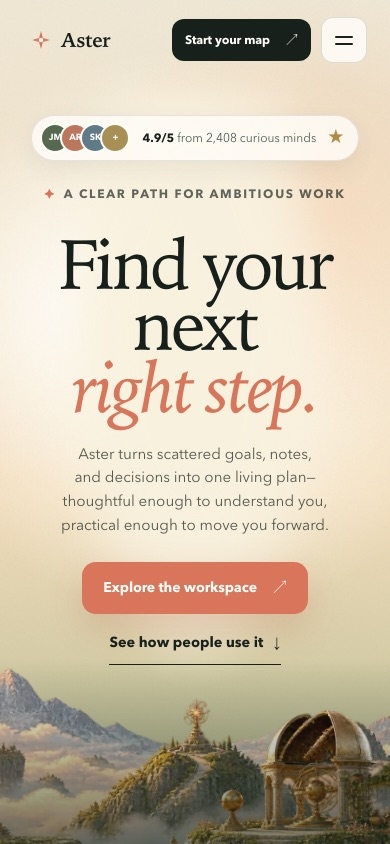
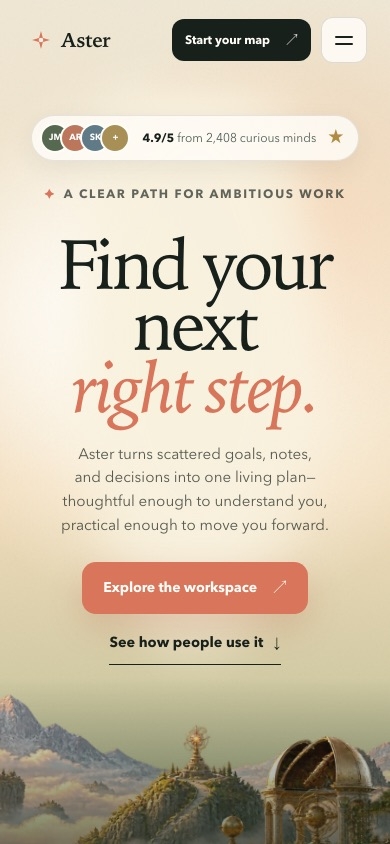
Fix hero press row and layer seams; restyle reviews as social posts
Press row
- `[data-reveal].is-visible` sets `transform: none`, which was wiping the
  `translateX(-50%)` that centred `.hero-proof`. The row sat at left:50%
  unshifted and ran off the right edge, clipping the last masthead. Centre it
  with `left:0; right:0` and the wrap's own `margin-inline:auto` instead, so
  no transform is involved.

Layer termination
- The three panorama layers ended at three different heights and drifted apart
  on scroll, leaving stacked horizontal seams. Cause: parallax translated the
  layers upward faster than the hero's own bottom edge rose, so they detached
  from the clip boundary, and the scene sat 45px above the hero bottom to begin
  with.
- Scene bottom now meets the hero bottom, and parallax lags downward (distant
  layer lags most) so all three always extend past the hero edge and are
  clipped on one line. Verified at four scroll depths: every layer bottom is
  at or below the hero bottom throughout.

Reviews
- Restyled from editorial pull-quotes to the reference's social-post anatomy:
  avatar, name with a verified tick, star row, plain sans body, and a
  date/country footer, in white cards with a fade-out and a floating
  "2,408 people" count pill.

Claude-Session: https://claude.ai/code/session_01HSVe2dt55jy1ozJ2u5iDJx

Changed region(s): [[0.0, 0.7701, 1.0, 1.0]]

diff --git a/index.html b/index.html
@@ -253,22 +253,112 @@
 
       <section class="stories section-pad" id="stories">
         <div class="wrap story-heading" data-reveal><div><p class="section-kicker">People who found their path</p><h2>Less spinning.<br /><em>More becoming.</em></h2></div><p>From an uncertain first note to a decision they were proud to make, these are small stories of momentum returning.</p></div>
-        <div class="story-wall" data-reveal>
-            <article class="story-card story-featured"><div class="quote-mark">“</div><blockquote>Aster helped me stop treating every idea like an emergency. I could finally see the one decision underneath all the noise.</blockquote><div class="story-person"><span class="story-avatar coral">MP</span><div><strong>Maya Patel</strong><small>Independent researcher · London</small></div></div></article>
-            <article class="story-card"><div class="story-stars" role="img" aria-label="Rated 5 out of 5">★★★★★</div><blockquote>I opened it at 11pm with six scattered notes. Forty minutes later I had a plan I actually believed.</blockquote><div class="story-person"><span class="story-avatar sage">JL</span><div><strong>Jon Lee</strong><small>Product designer · Seoul</small></div></div></article>
-            <article class="story-card story-dark"><div class="story-stars" role="img" aria-label="Rated 5 out of 5">★★★★★</div><blockquote>Less like software giving advice, more like a room where my own thinking becomes easier to hear.</blockquote><div class="story-person"><span class="story-avatar blue">AR</span><div><strong>Amira Ross</strong><small>Founder · Toronto</small></div></div></article>
-            <article class="story-card"><div class="story-stars" role="img" aria-label="Rated 5 out of 5">★★★★★</div><blockquote>The roadmap keeps changing as I learn, which is exactly what a real plan should do.</blockquote><div class="story-person"><span class="story-avatar gold">SK</span><div><strong>Sam K.</strong><small>Writer · Melbourne</small></div></div></article>
-            <article class="story-card"><div class="story-stars" role="img" aria-label="Rated 5 out of 5">★★★★★</div><blockquote>I stopped rewriting the same to-do list. The decision map showed me only two things actually mattered.</blockquote><div class="story-person"><span class="story-avatar coral">DV</span><div><strong>Dani Vasquez</strong><small>Grad student · Austin</small></div></div></article>
-            <article class="story-card"><div class="story-stars" role="img" aria-label="Rated 5 out of 5">★★★★★</div><blockquote>The pattern view found a thread across two years of notes I had never connected.</blockquote><div class="story-person"><span class="story-avatar sage">TO</span><div><strong>Tomas Ohl</strong><small>Engineer · Berlin</small></div></div></article>
-            <article class="story-card"><div class="story-stars" role="img" aria-label="Rated 5 out of 5">★★★★★</div><blockquote>I use it to think out loud before meetings. My arguments got noticeably sharper.</blockquote><div class="story-person"><span class="story-avatar blue">NB</span><div><strong>Nia Brooks</strong><small>Consultant · Chicago</small></div></div></article>
-            <article class="story-card"><div class="story-stars" role="img" aria-label="Rated 5 out of 5">★★★★★</div><blockquote>Not another tracker. It asks the question I was avoiding, which is worth more than a checklist.</blockquote><div class="story-person"><span class="story-avatar gold">EF</span><div><strong>Eli Fraser</strong><small>Photographer · Lisbon</small></div></div></article>
-            <article class="story-card"><div class="story-stars" role="img" aria-label="Rated 5 out of 5">★★★★★</div><blockquote>Onboarding took five minutes and it already understood the shape of my project.</blockquote><div class="story-person"><span class="story-avatar coral">RK</span><div><strong>Rae Kim</strong><small>Founder · Vancouver</small></div></div></article>
-            <article class="story-card"><div class="story-stars" role="img" aria-label="Rated 5 out of 5">★★★★★</div><blockquote>Every suggestion links back to my own notes, so I can check the reasoning instead of trusting it blindly.</blockquote><div class="story-person"><span class="story-avatar sage">HM</span><div><strong>Hana Mori</strong><small>Researcher · Kyoto</small></div></div></article>
-            <article class="story-card"><div class="story-stars" role="img" aria-label="Rated 5 out of 5">★★★★★</div><blockquote>It kept my momentum through a month where I would normally have stalled completely.</blockquote><div class="story-person"><span class="story-avatar blue">LC</span><div><strong>Luis Cardoso</strong><small>Strategist · São Paulo</small></div></div></article>
-            <article class="story-card"><div class="story-stars" role="img" aria-label="Rated 5 out of 5">★★★★★</div><blockquote>My writing still sounds like me. That was the thing I was most worried about.</blockquote><div class="story-person"><span class="story-avatar gold">GA</span><div><strong>Greta Alden</strong><small>Editor · Dublin</small></div></div></article>
+        <div class="story-wall-shell">
+          <div class="story-wall" data-reveal>
+            <article class="story-card">
+              <header class="story-head">
+                <span class="story-avatar coral" aria-hidden="true">MP</span>
+                <div><p class="story-name">Maya Patel<svg class="verified" viewBox="0 0 20 20" aria-hidden="true"><path d="M10 1.4 12.2 3l2.7-.2 1 2.5 2.3 1.4-.7 2.6.7 2.6-2.3 1.4-1 2.5-2.7-.2L10 18.6 7.8 17l-2.7.2-1-2.5L1.8 13.3l.7-2.6-.7-2.6 2.3-1.4 1-2.5 2.7.2Z"/><path d="m6.9 10.1 2.1 2.1 4.1-4.3" fill="none" stroke="#fff" stroke-width="1.7" stroke-linecap="round" stroke-linejoin="round"/></svg></p><p class="story-stars" role="img" aria-label="Rated 5 out of 5">★★★★★</p></div>
+              </header>
+              <p class="story-body">Aster helped me stop treating every idea like an emergency. I could finally see the one decision underneath all the noise.</p>
+              <p class="story-meta"><time>Nov 12, 2026</time><span aria-hidden="true">·</span><span>UK</span></p>
+            </article>
+            <article class="story-card">
+              <header class="story-head">
+                <span class="story-avatar sage" aria-hidden="true">JL</span>
+                <div><p class="story-name">Jon Lee<svg class="verified" viewBox="0 0 20 20" aria-hidden="true"><path d="M10 1.4 12.2 3l2.7-.2 1 2.5 2.3 1.4-.7 2.6.7 2.6-2.3 1.4-1 2.5-2.7-.2L10 18.6 7.8 17l-2.7.2-1-2.5L1.8 13.3l.7-2.6-.7-2.6 2.3-1.4 1-2.5 2.7.2Z"/><path d="m6.9 10.1 2.1 2.1 4.1-4.3" fill="none" stroke="#fff" stroke-width="1.7" stroke-linecap="round" stroke-linejoin="round"/></svg></p><p class="story-stars" role="img" aria-label="Rated 5 out of 5">★★★★★</p></div>
+              </header>
+              <p class="story-body">I opened it at 11pm with six scattered notes. Forty minutes later I had a plan I actually believed.</p>
+              <p class="story-meta"><time>Nov 4, 2026</time><span aria-hidden="true">·</span><span>KR</span></p>
+            </article>
+            <article class="story-card">
+              <header class="story-head">
+                <span class="story-avatar blue" aria-hidden="true">AR</span>
+                <div><p class="story-name">Amira Ross<svg class="verified" viewBox="0 0 20 20" aria-hidden="true"><path d="M10 1.4 12.2 3l2.7-.2 1 2.5 2.3 1.4-.7 2.6.7 2.6-2.3 1.4-1 2.5-2.7-.2L10 18.6 7.8 17l-2.7.2-1-2.5L1.8 13.3l.7-2.6-.7-2.6 2.3-1.4 1-2.5 2.7.2Z"/><path d="m6.9 10.1 2.1 2.1 4.1-4.3" fill="none" stroke="#fff" stroke-width="1.7" stroke-linecap="round" stroke-linejoin="round"/></svg></p><p class="story-stars" role="img" aria-label="Rated 5 out of 5">★★★★★</p></div>
+              </header>
+              <p class="story-body">Less like software giving advice, more like a room where my own thinking becomes easier to hear.</p>
+              <p class="story-meta"><time>Oct 28, 2026</time><span aria-hidden="true">·</span><span>CA</span></p>
+            </article>
+            <article class="story-card">
+              <header class="story-head">
+                <span class="story-avatar gold" aria-hidden="true">SK</span>
+                <div><p class="story-name">Sam K.<svg class="verified" viewBox="0 0 20 20" aria-hidden="true"><path d="M10 1.4 12.2 3l2.7-.2 1 2.5 2.3 1.4-.7 2.6.7 2.6-2.3 1.4-1 2.5-2.7-.2L10 18.6 7.8 17l-2.7.2-1-2.5L1.8 13.3l.7-2.6-.7-2.6 2.3-1.4 1-2.5 2.7.2Z"/><path d="m6.9 10.1 2.1 2.1 4.1-4.3" fill="none" stroke="#fff" stroke-width="1.7" stroke-linecap="round" stroke-linejoin="round"/></svg></p><p class="story-stars" role="img" aria-label="Rated 5 out of 5">★★★★★</p></div>
+              </header>
+              <p class="story-body">The roadmap keeps changing as I learn, which is exactly what a real plan should do.</p>
+              <p class="story-meta"><time>Oct 21, 2026</time><span aria-hidden="true">·</span><span>AU</span></p>
+            </article>
+            <article class="story-card">
+              <header class="story-head">
+                <span class="story-avatar coral" aria-hidden="true">DV</span>
+                <div><p class="story-name">Dani Vasquez<svg class="verified" viewBox="0 0 20 20" aria-hidden="true"><path d="M10 1.4 12.2 3l2.7-.2 1 2.5 2.3 1.4-.7 2.6.7 2.6-2.3 1.4-1 2.5-2.7-.2L10 18.6 7.8 17l-2.7.2-1-2.5L1.8 13.3l.7-2.6-.7-2.6 2.3-1.4 1-2.5 2.7.2Z"/><path d="m6.9 10.1 2.1 2.1 4.1-4.3" fill="none" stroke="#fff" stroke-width="1.7" stroke-linecap="round" stroke-linejoin="round"/></svg></p><p class="story-stars" role="img" aria-label="Rated 5 out of 5">★★★★★</p></div>
+              </header>
+              <p class="story-body">I stopped rewriting the same to-do list. The decision map showed me only two things actually mattered.</p>
+              <p class="story-meta"><time>Oct 9, 2026</time><span aria-hidden="true">·</span><span>US</span></p>
+            </article>
+            <article class="story-card">
+              <header class="story-head">
+                <span class="story-avatar sage" aria-hidden="true">TO</span>
+                <div><p class="story-name">Tomas Ohl<svg class="verified" viewBox="0 0 20 20" aria-hidden="true"><path d="M10 1.4 12.2 3l2.7-.2 1 2.5 2.3 1.4-.7 2.6.7 2.6-2.3 1.4-1 2.5-2.7-.2L10 18.6 7.8 17l-2.7.2-1-2.5L1.8 13.3l.7-2.6-.7-2.6 2.3-1.4 1-2.5 2.7.2Z"/><path d="m6.9 10.1 2.1 2.1 4.1-4.3" fill="none" stroke="#fff" stroke-width="1.7" stroke-linecap="round" stroke-linejoin="round"/></svg></p><p class="story-stars" role="img" aria-label="Rated 5 out of 5">★★★★★</p></div>
+              </header>
+              <p class="story-body">The pattern view found a thread across two years of notes I had never connected.</p>
+              <p class="story-meta"><time>Sep 30, 2026</time><span aria-hidden="true">·</span><span>DE</span></p>
+            </article>
+            <article class="story-card">
+              <header class="story-head">
+                <span class="story-avatar blue" aria-hidden="true">NB</span>
+                <div><p class="story-name">Nia Brooks<svg class="verified" viewBox="0 0 20 20" aria-hidden="true"><path d="M10 1.4 12.2 3l2.7-.2 1 2.5 2.3 1.4-.7 2.6.7 2.6-2.3 1.4-1 2.5-2.7-.2L10 18.6 7.8 17l-2.7.2-1-2.5L1.8 13.3l.7-2.6-.7-2.6 2.3-1.4 1-2.5 2.7.2Z"/><path d="m6.9 10.1 2.1 2.1 4.1-4.3" fill="none" stroke="#fff" stroke-width="1.7" stroke-linecap="round" stroke-linejoin="round"/></svg></p><p class="story-stars" role="img" aria-label="Rated 5 out of 5">★★★★★</p></div>
+              </header>
+              <p class="story-body">I use it to think out loud before meetings. My arguments got noticeably sharper.</p>
+              <p class="story-meta"><time>Sep 22, 2026</time><span aria-hidden="true">·</span><span>US</span></p>
+            </article>
+            <article class="story-card">
+              <header class="story-head">
+                <span class="story-avatar gold" aria-hidden="true">EF</span>
+                <div><p class="story-name">Eli Fraser<svg class="verified" viewBox="0 0 20 20" aria-hidden="true"><path d="M10 1.4 12.2 3l2.7-.2 1 2.5 2.3 1.4-.7 2.6.7 2.6-2.3 1.4-1 2.5-2.7-.2L10 18.6 7.8 17l-2.7.2-1-2.5L1.8 13.3l.7-2.6-.7-2.6 2.3-1.4 1-2.5 2.7.2Z"/><path d="m6.9 10.1 2.1 2.1 4.1-4.3" fill="none" stroke="#fff" stroke-width="1.7" stroke-linecap="round" stroke-linejoin="round"/></svg></p><p class="story-stars" role="img" aria-label="Rated 5 out of 5">★★★★★</p></div>
+              </header>
+              <p class="story-body">Not another tracker. It asks the question I was avoiding, which is worth more than a checklist.</p>
+              <p class="story-meta"><time>Sep 15, 2026</time><span aria-hidden="true">·</span><span>PT</span></p>
+            </article>
+            <article class="story-card">
+              <header class="story-head">
+                <span class="story-avatar coral" aria-hidden="true">RK</span>
+                <div><p class="story-name">Rae Kim<svg class="verified" viewBox="0 0 20 20" aria-hidden="true"><path d="M10 1.4 12.2 3l2.7-.2 1 2.5 2.3 1.4-.7 2.6.7 2.6-2.3 1.4-1 2.5-2.7-.2L10 18.6 7.8 17l-2.7.2-1-2.5L1.8 13.3l.7-2.6-.7-2.6 2.3-1.4 1-2.5 2.7.2Z"/><path d="m6.9 10.1 2.1 2.1 4.1-4.3" fill="none" stroke="#fff" stroke-width="1.7" stroke-linecap="round" stroke-linejoin="round"/></svg></p><p class="story-stars" role="img" aria-label="Rated 5 out of 5">★★★★★</p></div>
+              </header>
+              <p class="story-body">Onboarding took five minutes and it already understood the shape of my project.</p>
+              <p class="story-meta"><time>Sep 3, 2026</time><span aria-hidden="true">·</span><span>CA</span></p>
+            </article>
+            <article class="story-card">
+              <header class="story-head">
+                <span class="story-avatar sage" aria-hidden="true">HM</span>
+                <div><p class="story-name">Hana Mori<svg class="verified" viewBox="0 0 20 20" aria-hidden="true"><path d="M10 1.4 12.2 3l2.7-.2 1 2.5 2.3 1.4-.7 2.6.7 2.6-2.3 1.4-1 2.5-2.7-.2L10 18.6 7.8 17l-2.7.2-1-2.5L1.8 13.3l.7-2.6-.7-2.6 2.3-1.4 1-2.5 2.7.2Z"/><path d="m6.9 10.1 2.1 2.1 4.1-4.3" fill="none" stroke="#fff" stroke-width="1.7" stroke-linecap="round" stroke-linejoin="round"/></svg></p><p class="story-stars" role="img" aria-label="Rated 5 out of 5">★★★★★</p></div>
+              </header>
+              <p class="story-body">Every suggestion links back to my own notes, so I can check the reasoning instead of trusting it blindly.</p>
+              <p class="story-meta"><time>Aug 26, 2026</time><span aria-hidden="true">·</span><span>JP</span></p>
+            </article>
+            <article class="story-card">
+              <header class="story-head">
+                <span class="story-avatar blue" aria-hidden="true">LC</span>
+                <div><p class="story-name">Luis Cardoso<svg class="verified" viewBox="0 0 20 20" aria-hidden="true"><path d="M10 1.4 12.2 3l2.7-.2 1 2.5 2.3 1.4-.7 2.6.7 2.6-2.3 1.4-1 2.5-2.7-.2L10 18.6 7.8 17l-2.7.2-1-2.5L1.8 13.3l.7-2.6-.7-2.6 2.3-1.4 1-2.5 2.7.2Z"/><path d="m6.9 10.1 2.1 2.1 4.1-4.3" fill="none" stroke="#fff" stroke-width="1.7" stroke-linecap="round" stroke-linejoin="round"/></svg></p><p class="story-stars" role="img" aria-label="Rated 5 out of 5">★★★★★</p></div>
+              </header>
+              <p class="story-body">It kept my momentum through a month where I would normally have stalled completely.</p>
+              <p class="story-meta"><time>Aug 18, 2026</time><span aria-hidden="true">·</span><span>BR</span></p>
+            </article>
+            <article class="story-card">
+              <header class="story-head">
+                <span class="story-avatar gold" aria-hidden="true">GA</span>
+                <div><p class="story-name">Greta Alden<svg class="verified" viewBox="0 0 20 20" aria-hidden="true"><path d="M10 1.4 12.2 3l2.7-.2 1 2.5 2.3 1.4-.7 2.6.7 2.6-2.3 1.4-1 2.5-2.7-.2L10 18.6 7.8 17l-2.7.2-1-2.5L1.8 13.3l.7-2.6-.7-2.6 2.3-1.4 1-2.5 2.7.2Z"/><path d="m6.9 10.1 2.1 2.1 4.1-4.3" fill="none" stroke="#fff" stroke-width="1.7" stroke-linecap="round" stroke-linejoin="round"/></svg></p><p class="story-stars" role="img" aria-label="Rated 5 out of 5">★★★★★</p></div>
+              </header>
+              <p class="story-body">My writing still sounds like me. That was the thing I was most worried about.</p>
+              <p class="story-meta"><time>Aug 7, 2026</time><span aria-hidden="true">·</span><span>IE</span></p>
+            </article>
+          </div>
+          <div class="story-fade" aria-hidden="true"></div>
+          <div class="story-count">
+            <div class="avatar-stack" aria-hidden="true"><span>MP</span><span>JL</span><span>AR</span><span>SK</span></div>
+            <strong>2,408 people are building with more clarity</strong>
+            <a href="#start">View more <span aria-hidden="true">⌄</span></a>
+          </div>
         </div>
-
-        <div class="story-count wrap" data-reveal><div class="avatar-stack"><span>MP</span><span>JL</span><span>AR</span><span>SK</span></div><strong>2,408 people are building with more clarity</strong><a href="#start">Read more stories →</a></div>
       </section>
 
       <section class="faq section-pad" id="questions">

diff --git a/styles.css b/styles.css
@@ -100,15 +100,15 @@ h2 { margin-bottom: 0; font-size: clamp(3rem, 6vw, 5.8rem); line-height: 0.97; }
 .hero h1 em { display: inline-block; }
 .hero-lede { max-width: 680px; margin: 0 auto; color: rgba(23,32,27,.72); font-size: clamp(1.04rem, 1.5vw, 1.24rem); line-height: 1.55; text-wrap: balance; }
 .hero-actions { margin-top: 31px; display: flex; justify-content: center; align-items: center; gap: 27px; }
-.hero-scene { position: absolute; z-index: 2; left: 50%; bottom: 45px; width: min(2172px, 152vw); height: min(724px, 51vw); min-height: 520px; transform: translateX(-50%); pointer-events: none; }
+.hero-scene { position: absolute; z-index: 2; left: 50%; bottom: 0; width: min(2172px, 152vw); height: min(724px, 51vw); min-height: 520px; transform: translateX(-50%); pointer-events: none; }
 .hero-layer { position: absolute; inset: auto 0 0; width: 100%; height: auto; max-width: none; will-change: transform, opacity; transform-origin: center bottom; }
-.hero-layer-horizon { z-index: 1; opacity: 0; transform: translate3d(0, calc(20% - var(--hero-progress) * 76px), 0) scale(1.02); animation: horizon-arrive 1.2s .65s cubic-bezier(.22,1,.36,1) forwards; }
-.hero-layer-midground { z-index: 3; transform: translate3d(0, calc(240px + var(--hero-progress) * -88px), 0) scale(.925); }
-.hero-layer-foreground { z-index: 5; transform: translate3d(0, calc(64px + var(--hero-progress) * -118px), 0) scale(1.015); }
+.hero-layer-horizon { z-index: 1; opacity: 0; transform: translate3d(0, calc(20% + var(--hero-progress) * 90px), 0) scale(1.02); animation: horizon-arrive 1.2s .65s cubic-bezier(.22,1,.36,1) forwards; }
+.hero-layer-midground { z-index: 3; transform: translate3d(0, calc(240px + var(--hero-progress) * 55px), 0) scale(.925); }
+.hero-layer-foreground { z-index: 5; transform: translate3d(0, calc(64px + var(--hero-progress) * 22px), 0) scale(1.015); }
 .hero-edge-mask { position: absolute; z-index: 8; inset: 0; background: linear-gradient(90deg, #b4bd92 0%, transparent 9%, transparent 91%, #b4bd92 100%); pointer-events: none; }
-.hero-proof-scrim { position: absolute; z-index: 9; inset: auto 0 -45px; height: 220px; background: linear-gradient(180deg, transparent, rgba(31,47,34,.7)); }
-@keyframes horizon-arrive { to { opacity: .94; transform: translate3d(0, calc(var(--hero-progress) * -64px), 0) scale(1.02); } }
-.hero-proof { position: absolute; z-index: 15; bottom: 22px; left: 50%; transform: translateX(-50%); color: var(--white); display: flex; justify-content: center; align-items: end; gap: 32px; }
+.hero-proof-scrim { position: absolute; z-index: 9; inset: auto 0 0; height: 200px; background: linear-gradient(180deg, transparent, rgba(31,47,34,.7)); }
+@keyframes horizon-arrive { to { opacity: .94; transform: translate3d(0, calc(var(--hero-progress) * 90px), 0) scale(1.02); } }
+.hero-proof { position: absolute; z-index: 15; bottom: 22px; left: 0; right: 0; color: var(--white); display: flex; justify-content: center; align-items: end; gap: 32px; }
 
 /* Rating pill sits above the headline so the social proof is always inside
    the first fold, at any viewport height. */
@@ -212,11 +212,28 @@ h2 { margin-bottom: 0; font-size: clamp(3rem, 6vw, 5.8rem); line-height: 0.97; }
 
 .stories{background:#f8f3e9;overflow:hidden}.story-heading{display:grid;grid-template-columns:1fr .65fr;align-items:end;gap:80px}.story-heading h2{font-size:clamp(3.7rem,7vw,7.4rem)}.story-heading>p{color:var(--ink-soft);max-width:440px;margin-bottom:10px}/* Review wall - a dense masonry of short reviews rather than a four-card
    rail, so the section carries the weight of real volume. */
-.story-wall{width:min(calc(100% - 48px),var(--wrap));margin:72px auto 0;columns:3;column-gap:20px}
-.story-wall .story-card{width:auto;min-height:0;margin:0 0 20px;display:inline-flex;break-inside:avoid}
-.story-wall .story-featured{width:auto}.story-card{width:min(410px,82vw);padding:28px;display:flex;flex-direction:column;border:1px solid var(--line);border-radius:24px;background:#fffdf8;box-shadow:0 15px 45px rgba(33,40,34,.06)}.story-featured{width:min(570px,87vw);background:#ecd2c0}.story-dark{background:var(--forest);color:white}.quote-mark{font-family:var(--display);font-size:5rem;line-height:.7;color:var(--coral)}.story-card blockquote{margin:18px 0 auto;font-family:var(--display);font-size:1.28rem;line-height:1.3}
-.story-wall .story-featured blockquote{font-size:1.72rem;line-height:1.16}
-.story-wall .story-featured .quote-mark{font-size:3.4rem}.story-stars{color:var(--brass);letter-spacing:.12em}.story-person{margin-top:24px;display:flex;align-items:center;gap:12px}.story-avatar{width:43px;height:43px;display:grid;place-items:center;border-radius:50%;font-size:.66rem;font-weight:700}.story-avatar.coral{background:#cb765d}.story-avatar.sage{background:#a5b190}.story-avatar.blue{background:#93b9c5}.story-avatar.sage{background:#6d8058}.story-avatar.gold{background:#b9944b}.story-avatar.gold{background:#d8b45e}.story-person strong,.story-person small{display:block}.story-person strong{font-size:.76rem}.story-person small{font-size:.62rem;color:#7c857f}.story-dark .story-person small{color:rgba(255,255,255,.55)}.story-count{margin-top:38px;display:flex;align-items:center;gap:18px}.story-count strong{font-size:.8rem}.story-count a{margin-left:auto;font-size:.78rem;font-weight:700;border-bottom:1px solid}
+
+/* Reviews read as social posts, not pull-quotes: avatar, name with a verified
+   tick, star row, plain body copy, and a date/country footer. */
+.story-wall-shell{position:relative}
+.story-fade{position:absolute;z-index:2;inset:auto 0 0;height:210px;background:linear-gradient(180deg,rgba(248,243,233,0),#f8f3e9 76%);pointer-events:none}
+.story-head{display:flex;align-items:center;gap:11px}
+.story-head>div{min-width:0}
+.story-name{margin:0;display:flex;align-items:center;gap:5px;font-size:.92rem;font-weight:700;letter-spacing:-.01em}
+.verified{width:15px;height:15px;flex:none;fill:#3b9ae1}
+.story-stars{margin:2px 0 0;color:#e0a828;font-size:.76rem;letter-spacing:.1em}
+.story-body{margin:14px 0 0;font-size:.95rem;line-height:1.5;color:var(--ink)}
+.story-meta{margin:16px 0 0;display:flex;align-items:center;gap:7px;color:#8d958f;font-size:.73rem}
+.story-count{position:absolute;z-index:3;left:50%;bottom:-14px;transform:translateX(-50%);display:flex;align-items:center;gap:14px;padding:8px 10px 8px 12px;border:1px solid rgba(23,32,27,.09);border-radius:99px;background:var(--white);box-shadow:0 14px 40px rgba(32,38,31,.14);white-space:nowrap}
+.story-count strong{font-size:.86rem}
+.story-count .avatar-stack span{width:30px;height:30px;border-color:var(--white);font-size:.55rem}
+.story-count a{display:inline-flex;align-items:center;gap:6px;padding:9px 15px;border-radius:99px;background:rgba(23,32,27,.05);font-size:.8rem;font-weight:700}
+.story-count a:hover{background:rgba(23,32,27,.1)}
+.story-wall{width:min(calc(100% - 48px),var(--wrap));margin:72px auto 0;columns:3;column-gap:20px;padding-bottom:96px}
+.story-wall .story-card{width:auto;min-height:0;margin:0 0 20px;display:flex;break-inside:avoid}
+.story-card{width:min(410px,82vw);padding:20px;display:flex;flex-direction:column;border:1px solid var(--line);border-radius:18px;background:var(--white);box-shadow:0 10px 30px rgba(33,40,34,.05)}
+
+.story-avatar{width:38px;height:38px;flex:none;display:grid;place-items:center;border-radius:50%;font-size:.66rem;font-weight:700}.story-avatar.coral{background:#cb765d}.story-avatar.sage{background:#a5b190}.story-avatar.blue{background:#93b9c5}.story-avatar.sage{background:#6d8058}.story-avatar.gold{background:#b9944b}.story-avatar.gold{background:#d8b45e}.story-person strong{font-size:.76rem}.story-dark 
 
 .faq{background:#e4e4d6}.faq-layout{display:grid;grid-template-columns:.65fr 1fr;gap:110px;align-items:start}.faq-intro{position:sticky;top:120px}.faq-intro h2{font-size:clamp(3.4rem,5.2vw,5.8rem)}.faq-intro>p:last-child{max-width:380px;margin-top:28px;color:var(--ink-soft)}.faq-list{border-top:1px solid rgba(23,32,27,.25)}.faq details{border-bottom:1px solid rgba(23,32,27,.25)}.faq summary{min-height:78px;display:flex;align-items:center;justify-content:space-between;gap:30px;cursor:pointer;list-style:none;font-family:var(--display);font-size:1.35rem}.faq summary::-webkit-details-marker{display:none}.faq summary span{font-family:var(--sans);font-weight:300;transition:transform 200ms ease}.faq details[open] summary span{transform:rotate(45deg)}.faq details p{max-width:650px;padding:0 54px 28px 0;margin:0;color:#55625b;font-size:.91rem}
 
@@ -231,7 +248,7 @@ h2 { margin-bottom: 0; font-size: clamp(3rem, 6vw, 5.8rem); line-height: 0.97; }
   .nav-links a { padding: 13px 14px; border-radius: 12px; color: var(--ink); }
   .nav-links a:hover, .nav-links a:focus-visible { background: rgba(23,32,27,.05); }
   .site-header .nav-shell.nav-open { background: rgba(255,253,248,.96); border-color: rgba(23,32,27,.09); box-shadow: 0 12px 38px rgba(32,38,31,.08); }
-  .hero{--hero-h:clamp(900px,calc(760px + 25svh),1040px);--hero-copy-top:clamp(88px,12svh,112px)}.hero-scene{bottom:34px;width:175vw;height:58vw;min-height:470px}.hero-layer-midground{transform:translate3d(0,calc(174px + var(--hero-progress)*-70px),0) scale(.93)}.hero-layer-foreground{transform:translate3d(0,calc(54px + var(--hero-progress)*-88px),0) scale(1.015)}.hero-proof-scrim{bottom:-34px}.hero-proof{align-items:center}.press-lockup span:nth-of-type(n+3){display:none}
+  .hero{--hero-h:clamp(900px,calc(760px + 25svh),1040px);--hero-copy-top:clamp(88px,12svh,112px)}.hero-scene{bottom:0;width:175vw;height:58vw;min-height:470px}.hero-layer-midground{transform:translate3d(0,calc(174px + var(--hero-progress)*44px),0) scale(.93)}.hero-layer-foreground{transform:translate3d(0,calc(54px + var(--hero-progress)*18px),0) scale(1.015)}.hero-proof-scrim{bottom:0}.hero-proof{align-items:center}.press-lockup span:nth-of-type(n+3){display:none}
   .dashboard-shell{grid-template-columns:1fr;min-height:0}.dash-sidebar{display:none}.dash-main{padding:26px}.dash-grid{grid-template-columns:1fr 1fr;grid-template-rows:auto}.dash-focus{grid-column:1/-1}.dash-grid article{min-height:260px}.dash-notes{min-height:260px}
   
   .story-wall{columns:2}.story-heading{grid-template-columns:1fr;gap:28px}.story-heading>p{margin:0}.faq-layout{grid-template-columns:1fr;gap:55px}.faq-intro{position:static;max-width:700px}.footer-grid{grid-template-columns:1.4fr repeat(3,.6fr);gap:30px}
@@ -239,12 +256,12 @@ h2 { margin-bottom: 0; font-size: clamp(3rem, 6vw, 5.8rem); line-height: 0.97; }
 
 @media (max-width: 680px) {
   .wrap{width:min(calc(100% - 30px),var(--wrap))}.section-pad{padding-block:92px}.site-header{top:10px}.nav-shell{min-height:56px;padding:6px 7px 6px 14px;border-radius:18px}.brand{font-size:1.25rem}.brand svg{width:22px;height:22px}.button-small{min-height:42px;padding-inline:13px;font-size:.76rem}
-  .hero{--hero-h:clamp(760px,calc(650px + 27svh),960px);--hero-copy-top:clamp(88px,14svh,115px);background:radial-gradient(circle at 50% 38%,#fff8e8 0 15%,transparent 50%),linear-gradient(180deg,#efe7d4,#f3ddbc 56%,#aeb788)}.hero h1{font-size:clamp(3.75rem,18vw,5.4rem);line-height:.88}.hero-lede{font-size:.95rem;max-width:340px}.hero-actions{flex-direction:column;gap:8px;margin-top:25px}.hero-scene{bottom:26px;width:260vw;height:87vw;min-height:440px}.hero-layer-horizon{transform:translate3d(0,4%,0) scale(1.04)}.hero-layer-midground{transform:translate3d(0,calc(162px + var(--hero-progress)*-50px),0) scale(.93)}.hero-layer-foreground{transform:translate3d(0,calc(54px + var(--hero-progress)*-64px),0) scale(1.015)}.hero-edge-mask{background:linear-gradient(90deg,#aeb788 0,transparent 12%,transparent 88%,#aeb788 100%)}.hero-proof-scrim{bottom:-26px}.hero-proof{bottom:18px}.rating-pill{margin-bottom:20px;padding-right:14px}.rating-pill p{font-size:.75rem}.press-lockup{display:none}
+  .hero{--hero-h:clamp(760px,calc(650px + 27svh),960px);--hero-copy-top:clamp(88px,14svh,115px);background:radial-gradient(circle at 50% 38%,#fff8e8 0 15%,transparent 50%),linear-gradient(180deg,#efe7d4,#f3ddbc 56%,#aeb788)}.hero h1{font-size:clamp(3.75rem,18vw,5.4rem);line-height:.88}.hero-lede{font-size:.95rem;max-width:340px}.hero-actions{flex-direction:column;gap:8px;margin-top:25px}.hero-scene{bottom:0;width:260vw;height:87vw;min-height:440px}.hero-layer-horizon{transform:translate3d(0,4%,0) scale(1.04)}.hero-layer-midground{transform:translate3d(0,calc(162px + var(--hero-progress)*38px),0) scale(.93)}.hero-layer-foreground{transform:translate3d(0,calc(54px + var(--hero-progress)*15px),0) scale(1.015)}.hero-edge-mask{background:linear-gradient(90deg,#aeb788 0,transparent 12%,transparent 88%,#aeb788 100%)}.hero-proof-scrim{bottom:0}.hero-proof{bottom:18px}.rating-pill{margin-bottom:20px;padding-right:14px}.rating-pill p{font-size:.75rem}.press-lockup{display:none}
   h2{font-size:clamp(2.8rem,13vw,4.5rem)}.promise{padding-block:82px}.promise h2{font-size:clamp(2.65rem,11vw,4rem)}.founder-note{max-width:310px;text-align:left}
   .workspace-section{padding-top:70px}.workspace-section .section-heading h2{font-size:clamp(2.8rem,11vw,4rem)}.dashboard-shell{margin-top:42px;border-radius:20px}.dash-main{padding:18px}.dash-topline h3{font-size:1.55rem}.dash-grid{grid-template-columns:1fr}.dash-focus{grid-template-columns:1fr;padding:24px;min-height:440px}.dash-focus h4{font-size:1.65rem}.focus-orbit{margin-top:18px}.dash-grid article{min-height:250px}.dash-route ol{grid-template-columns:1fr 1fr}.dash-notes{min-height:240px}
   .decision-card{width:170px;padding:14px}.card-a{left:14px;top:20px}.card-b{right:14px;bottom:20px}.decision-center{width:210px}.atlas-map{inset:0 0 46%}.atlas-list{left:16px;right:16px;top:auto;bottom:16px;width:auto;height:49%;padding:18px}.atlas-list>div{padding:12px 0}.pattern-tag{font-size:.56rem}.tag-one{left:10px}.tag-two{right:10px}.tag-three{right:12px}.roadmap-stage{padding:18px;grid-template-columns:1fr}.roadmap-date{min-height:185px}.roadmap-date strong{font-size:4.7rem}.roadmap-column article.now{transform:none}.dialogue-stage{padding:25px}.bubble{max-width:92%}.choice-row{display:grid}.choice-stage{min-height:560px}.choice-orbit{width:130px;height:130px}.choice-core{width:190px;height:190px}.orbit-a{left:2%}.orbit-b{right:2%}.orbit-c{left:16%}
   .compare{overflow:hidden}.compare-table{overflow-x:auto;border-radius:18px}.compare-row{min-width:760px}.compare-row>div{padding:16px 12px}
-  .story-wall{columns:1;margin-top:48px}.story-card{padding:24px}.story-count{align-items:flex-start;flex-wrap:wrap}.story-count a{width:100%;margin-left:0}.faq summary{min-height:72px;font-size:1.15rem}.faq details p{padding-right:22px}.closing{min-height:760px;padding-top:120px}.closing h2{font-size:clamp(3.7rem,17vw,5.8rem)}.closing-horizon{width:1150px;bottom:-70px}.footer-grid{grid-template-columns:1fr 1fr}.footer-brand{grid-column:1/-1}.footer-brand p{margin-bottom:22px}
+  .story-wall{columns:1;margin-top:48px;padding-bottom:84px}.story-count{gap:8px;padding-left:10px}.story-count strong{font-size:.72rem;white-space:normal;max-width:150px}.story-card{padding:18px}.faq summary{min-height:72px;font-size:1.15rem}.faq details p{padding-right:22px}.closing{min-height:760px;padding-top:120px}.closing h2{font-size:clamp(3.7rem,17vw,5.8rem)}.closing-horizon{width:1150px;bottom:-70px}.footer-grid{grid-template-columns:1fr 1fr}.footer-brand{grid-column:1/-1}.footer-brand p{margin-bottom:22px}
 }
 
 /* Short phone screens: compress the hero so the primary action always lands
@@ -263,7 +280,7 @@ h2 { margin-bottom: 0; font-size: clamp(3rem, 6vw, 5.8rem); line-height: 0.97; }
   html { scroll-behavior:auto; }
   *, *::before, *::after { animation-duration: 0.01ms !important; animation-iteration-count: 1 !important; transition-duration: 0.01ms !important; }
   [data-reveal] { opacity:1; transform:none; }
-  .hero-layer-horizon { opacity:.94; transform:scale(1.02); }
+  .hero-layer-horizon { opacity:.94; transform:translate3d(0,20%,0) scale(1.02); }
   .hero-layer-midground { transform:translate3d(0,240px,0) scale(.925); }
   .hero-layer-foreground { transform:translate3d(0,64px,0) scale(1.015); }
   .typing i { transform:none; }

diff --git a/README.md b/README.md
@@ -16,7 +16,7 @@ A reusable marketing homepage built around layered alpha artwork and restrained 
 | **Product proof** | A deterministic dashboard mockup in pure HTML/CSS — no screenshots to re-render when your copy changes |
 | **Six feature cards** | A 3×2 grid of tinted panels, each holding an original CSS/SVG product stage above its name and description |
 | **Comparison table** | Three-column positioning grid, horizontally scrollable on mobile |
-| **Reviews, FAQ, closing CTA** | Twelve-review masonry wall, keyboard-operable `<details>` accordion, starfield close |
+| **Reviews, FAQ, closing CTA** | Twelve reviews as social-post cards (avatar, verified tick, stars, date/country) in a masonry wall with a floating count pill; keyboard-operable `<details>` accordion; starfield close |
 | **Responsive nav** | Full links on desktop, an accessible dropdown menu below 1000px |
 
 Accessibility: skip link, visible focus rings, `prefers-reduced-motion` honoured throughout, no decorative controls in the tab order, and no meaning carried only by imagery.
